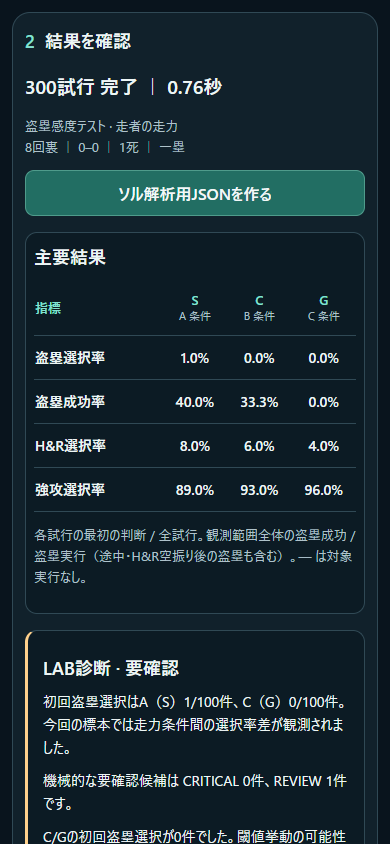
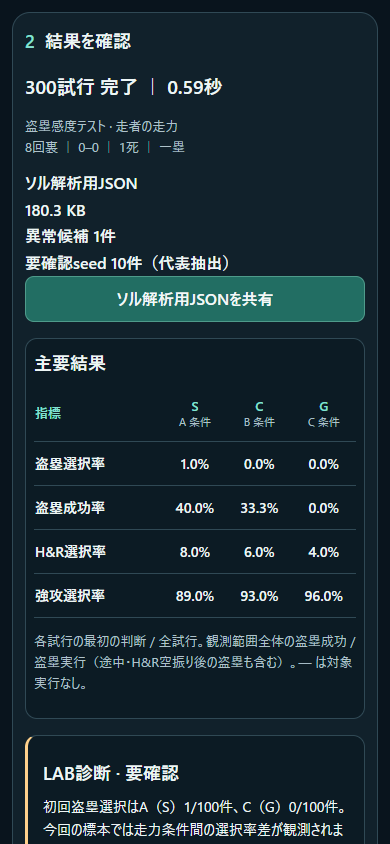
ENGINE LAB ソル解析用JSONを軽量化

Changed region(s): [[0.0615, 0.1848, 0.9538, 1.0], [0.4615, 0.0924, 0.5846, 0.1232], [0.8615, 0.8934, 0.8923, 0.9242]]

diff --git a/engine-lab-ui.js b/engine-lab-ui.js
@@ -42,7 +42,7 @@ function stop(){worker?.terminate();worker=null;$('run').disabled=false;$('cance
 $('run').onclick=()=>launch(scenario,$('axis').value,countValue(),$('seed').value);$('cancel').onclick=()=>{stop();status('中止しました。未完了データは保存されていません。');};
 const percent=(n,d)=>d?`${(100*n/d).toFixed(1)}%`:'—';
 function metricTable(root,metrics,groups,showCode=false){root.replaceChildren();const t=node('table',null,root);t.className='metrics-table';const cols=node('colgroup',null,t);for(let i=0;i<=groups.length;i++)node('col',null,cols);const head=node('tr',null,node('thead',null,t));node('th','指標',head).scope='col';groups.forEach((g,i)=>{const c=P.condition(g,i),th=node('th',c.label,head);th.scope='col';node('small',c.id+' 条件',th);});const body=node('tbody',null,t);for(const m of metrics){const row=node('tr',null,body),th=node('th',m.label,row);th.scope='row';th.title=m.basis;if(showCode)node('code',m.id,th);for(const value of m.values){const td=node('td',percent(value.numerator,value.denominator),row);td.title=`${value.numerator} / ${value.denominator} · ${m.basis}`;}}}
-function renderReport(){const r=report;if(renderedReport!==r){$('allMetrics').open=false;$('trialDetails').open=false;candidateScope=null;renderedReport=r;}view=P.analysis(r,before);$('results').hidden=false;$('timing').textContent=`${view.totalTrialCount.toLocaleString()}試行 完了 ｜ ${(r.elapsedMs/1000).toFixed(2)}秒`;$('resultContext').textContent=`${view.testName} · ${view.comparison.label}\n${P.situation(r.groups[0].bundle.scenario)}`;$('resultMeta').textContent=r.version+' · '+r.date;$('resultSetup').textContent=JSON.stringify({scenario:r.groups[0].bundle.scenario,comparisonAxis:r.axis,changedPaths:view.comparison.fixedConditions.changedPaths,seedPrefix:r.seedPrefix},null,2);metricTable($('primaryMetrics'),view.primaryMetrics,r.groups);$('metricNote').textContent=view.primaryMetrics.map(m=>m.basis).filter((v,i,a)=>a.indexOf(v)===i).join('。')+'。— は対象実行なし。';metricTable($('summary'),view.allMetrics.rates,r.groups,true);$('rawMetrics').textContent=JSON.stringify(view.allMetrics.rawByCondition,null,2);
+function renderReport(){const r=report;if(renderedReport!==r){$('allMetrics').open=false;$('trialDetails').open=false;candidateScope=null;renderedReport=r;}view=P.analysis(r,before);updateSolMeta();$('results').hidden=false;$('timing').textContent=`${view.totalTrialCount.toLocaleString()}試行 完了 ｜ ${(r.elapsedMs/1000).toFixed(2)}秒`;$('resultContext').textContent=`${view.testName} · ${view.comparison.label}\n${P.situation(r.groups[0].bundle.scenario)}`;$('resultMeta').textContent=r.version+' · '+r.date;$('resultSetup').textContent=JSON.stringify({scenario:r.groups[0].bundle.scenario,comparisonAxis:r.axis,changedPaths:view.comparison.fixedConditions.changedPaths,seedPrefix:r.seedPrefix},null,2);metricTable($('primaryMetrics'),view.primaryMetrics,r.groups);$('metricNote').textContent=view.primaryMetrics.map(m=>m.basis).filter((v,i,a)=>a.indexOf(v)===i).join('。')+'。— は対象実行なし。';metricTable($('summary'),view.allMetrics.rates,r.groups,true);$('rawMetrics').textContent=JSON.stringify(view.allMetrics.rawByCondition,null,2);
  const d=$('diagnosis');d.replaceChildren();d.className='diagnosis '+(view.labDiagnosis.status==='candidate'?'critical':view.labDiagnosis.status);node('h3','LAB診断 · '+view.labDiagnosis.label,d);for(const f of view.labDiagnosis.facts)node('p',f,d);node('p','機械的な検査結果です。失敗・盗塁死・敗戦だけでは異常扱いしません。',d).className='note';
  const next=$('nextTest');next.replaceChildren();node('h3','次の推奨テスト',next);node('p',view.recommendedNextTest.label,next);node('p','条件を準備するだけで、自動実行はしません。',next).className='note';node('button','この条件で次のテストを作る',next).onclick=prepareNext;
  $('shareFallback').hidden=true;$('shareStatus').textContent='';$('copyFallback').hidden=true;renderCandidates();renderTrials();renderBeforeAfter();}
@@ -52,7 +52,7 @@ $('nextAction').onclick=prepareNext;$('reviewAction').onclick=()=>{$('flags').sc
 function showSeeds(flag){candidateScope=flag;$('trialDetails').open=true;$('filter').value='all';$('search').value='';renderTrials();$('trialDetails').scrollIntoView({behavior:'smooth'});}
 function renderCandidates(){const root=$('flags');root.replaceChildren();node('h3','要確認候補',root);const flags=view.anomalySummary.candidates;node('p',`CRITICAL ${view.anomalySummary.criticalCount}件 ｜ REVIEW ${view.anomalySummary.reviewCount}件`,root).className='note';if(!flags.length){node('p','現在、機械検査による要確認候補はありません。保存したseedや任意のseedは下の一覧から確認できます。',root).className='note';return;}
  const buckets=new Map();for(const f of flags){const key=f.rule+'|'+f.groupIndex;if(!buckets.has(key))buckets.set(key,[]);buckets.get(key).push(f);}for(const list of [...buckets.values()].slice(0,30)){const f=list[0],card=node('article',null,root);card.className='candidate';node('span',f.severity==='CRITICAL'?'構造の確認':'要確認',card).className='badge '+f.severity;node('h4',f.heading+(list.length>1?`（${list.length}件）`:''),card);node('p',f.reason,card);if(f.detail)node('p',f.detail,card).className='note';node('code',f.rule,card);const group=Number.isInteger(f.groupIndex)?report.groups[f.groupIndex]:null,t=group?.trials.find(t=>t.seed===f.seed);node('p',t?`${group.label} · ${t.seed}`:'条件全体の候補です。特定seedの失敗を異常と判定したものではありません。',card).className='note';const actions=node('div',null,card);actions.className='toolbar';node('button',t?'対象seedを見る':'この条件のseedを見る',actions).onclick=()=>showSeeds(f);if(t)node('button','2Dで再生',actions).onclick=()=>play(group,t);}}
-function renderTrials(){const root=$('trials');root.replaceChildren();if(!report)return;if(candidateScope){node('p','絞り込み：'+candidateScope.heading,root).className='note';node('button','絞り込みを解除',root).onclick=()=>{candidateScope=null;renderTrials();};}let shown=0;for(let gi=0;gi<report.groups.length;gi++){const g=report.groups[gi];for(const t of g.trials){if(candidateScope){const f=candidateScope;if(f.groupIndices&&!f.groupIndices.includes(gi))continue;if(f.groupIndex!=null&&!f.groupIndices&&f.groupIndex!==gi)continue;if(f.rule!=='ZERO_STEAL_CG'&&f.seed&&!(t.anomalies.some(a=>a.rule===f.rule)||t.seed===f.seed))continue;}const key=gi+'|'+t.seed,saved=report.savedSeeds?.includes(key);if($('filter').value==='flagged'&&!t.anomalies.length||$('filter').value==='saved'&&!saved||!t.seed.includes($('search').value))continue;if(shown++>=50)break;const row=node('div',null,root);row.className='trial';node('span',t.classification==='NORMAL'?'候補なし':t.classification==='CRITICAL'?'構造の確認':'要確認',row).className='badge '+t.classification;node('p',`${g.label} · ${t.seed}`,row);node('p',`${P.label(t.initialDecision)} ｜ 終了スコア ${t.outcome.finalScore.join('–')}`,row);const actions=node('div',null,row);actions.className='toolbar';const save=node('button',saved?'★ 保存済み':'☆ seed保存',actions);save.onclick=async()=>{report.savedSeeds??=[];if(!report.savedSeeds.includes(key))report.savedSeeds.push(key);try{const savedName=await putReport($('saveName').value||report.seedPrefix||'saved-seeds',report);renderTrials();history();$('shareStatus').textContent='seedと再現条件を保存しました：'+savedName;}catch(e){$('shareStatus').textContent='保存失敗: '+e.message;}};node('button','2D再生',actions).onclick=()=>play(g,t);node('button','理由',actions).onclick=()=>{$('replaySection').hidden=false;$('trace').textContent=JSON.stringify(t,null,2);$('trace').parentElement.open=true;$('replaySection').scrollIntoView({behavior:'smooth'});};}}if(!shown)node('p','該当するseedはありません。',root).className='note';}
+function renderTrials(){const root=$('trials');root.replaceChildren();if(!report)return;if(candidateScope){node('p','絞り込み：'+candidateScope.heading,root).className='note';node('button','絞り込みを解除',root).onclick=()=>{candidateScope=null;renderTrials();};}let shown=0;for(let gi=0;gi<report.groups.length;gi++){const g=report.groups[gi];for(const t of g.trials){if(candidateScope){const f=candidateScope;if(f.groupIndices&&!f.groupIndices.includes(gi))continue;if(f.groupIndex!=null&&!f.groupIndices&&f.groupIndex!==gi)continue;if(f.rule!=='ZERO_STEAL_CG'&&f.seed&&!(t.anomalies.some(a=>a.rule===f.rule)||t.seed===f.seed))continue;}const key=gi+'|'+t.seed,saved=report.savedSeeds?.includes(key);if($('filter').value==='flagged'&&!t.anomalies.length||$('filter').value==='saved'&&!saved||!t.seed.includes($('search').value))continue;if(shown++>=50)break;const row=node('div',null,root);row.className='trial';node('span',t.classification==='NORMAL'?'候補なし':t.classification==='CRITICAL'?'構造の確認':'要確認',row).className='badge '+t.classification;node('p',`${g.label} · ${t.seed}`,row);node('p',`${P.label(t.initialDecision)} ｜ 終了スコア ${t.outcome.finalScore.join('–')}`,row);const actions=node('div',null,row);actions.className='toolbar';const save=node('button',saved?'★ 保存済み':'☆ seed保存',actions);save.onclick=async()=>{report.savedSeeds??=[];if(!report.savedSeeds.includes(key))report.savedSeeds.push(key);try{const savedName=await putReport($('saveName').value||report.seedPrefix||'saved-seeds',report);renderTrials();updateSolMeta();history();$('shareStatus').textContent='seedと再現条件を保存しました：'+savedName;}catch(e){$('shareStatus').textContent='保存失敗: '+e.message;}};node('button','2D再生',actions).onclick=()=>play(g,t);node('button','理由',actions).onclick=()=>{$('replaySection').hidden=false;$('trace').textContent=JSON.stringify(t,null,2);$('trace').parentElement.open=true;$('replaySection').scrollIntoView({behavior:'smooth'});};}}if(!shown)node('p','該当するseedはありません。',root).className='note';}
 $('filter').onchange=()=>{candidateScope=null;renderTrials();};$('search').oninput=()=>{candidateScope=null;renderTrials();};
 function verifyReplay(e){const t=replayTrial,s=replay.state,match=JSON.stringify(s.score)===JSON.stringify(t.outcome.finalScore)&&s.finished===t.outcome.gameFinished&&s.finishReason===t.outcome.finishReason;replayReport.uiChecks??=[];const key=replayGroupIndex+'|'+t.seed;replayReport.uiChecks=replayReport.uiChecks.filter(x=>x.key!==key);replayReport.uiChecks.push({key,seed:t.seed,groupIndex:replayGroupIndex,status:match?'matched':'mismatch',checkedFields:['finalScore','gameFinished','finishReason'],expected:t.outcome.finalScore,actual:[...s.score],checkedAt:new Date().toISOString()});$('replayLabel').textContent=match?'seed '+t.seed+'：終了スコア・試合終了情報が保存結果と一致しました。':'seed '+t.seed+'：保存結果との不一致を検出しました。';if(report===replayReport){view=P.analysis(report,before);if(!match){renderReport();$('shareStatus').textContent='保存結果とseed再実行が一致しません。要確認候補を確認してください。';}}}
 function play(group,t){try{if(group.bundle.config.version!==E.CONFIG.version)throw Error('このENGINEでは別versionのseed再計算はできません。対応versionで開いてください。');replayTrial=t;replayReport=report;replayGroupIndex=report.groups.indexOf(group);replay=L.create(group.bundle,t.seed);viewer?.reset();$('replaySection').hidden=false;$('replayLabel').textContent=`${group.label} / ${t.seed} / 保存時の選手コピーで再生`;replayDone=false;replayScope=group;replayStartPA=replay.state.paCompleted;if(!viewer)viewer=SL_MATCH_VIEWER.create({root:$('matchViewer'),getGame:()=>replayDone?{...replay,state:{...replay.state,finished:true,finishReason:replay.state.finishReason||'scenarioReplayComplete'}}:replay,step:mode=>{if(replayDone)return [];const records=[];do{const e=E.onePitch(replay);if(!e)break;records.push(e);const s=replayScope.bundle.scenario;replayDone=replay.state.finished||(s.horizon==='half'&&(replay.state.inning!==s.inning||replay.state.half!==s.half))||(s.horizon==='pa'&&replay.state.paCompleted!==replayStartPA);if(replayDone)verifyReplay(e);if(mode!=='game')break;}while(!replayDone);return records;},onChange:()=>{}});$('trace').textContent=JSON.stringify(t,null,2);$('matchViewer').querySelector('[data-action="view"]').click();$('replaySection').scrollIntoView({behavior:'smooth'});}catch(e){status(e.message);}}
@@ -64,15 +64,17 @@ async function historySummaries(){const db=await openDB();return new Promise((re
 const loadHistory=name=>storage('readonly',s=>s.get(name));
 
 function download(text,name,type){const url=URL.createObjectURL(new Blob([text],{type})),a=node('a',null);a.href=url;a.download=name;a.hidden=true;document.body.append(a);a.click();a.remove();setTimeout(()=>URL.revokeObjectURL(url),60000);}
-function exportText(){return JSON.stringify(P.exportReport(report,before),null,2);}
-function downloadSol(){download(exportText(),P.filename(report),'application/json');}
-$('json').onclick=downloadSol;$('csv').onclick=()=>download(L.csv(report),P.filename(report).replace(/\.json$/,'.csv'),'text/csv');
-$('solJson').onclick=async()=>{if(!report)return;$('shareStatus').textContent='解析用JSONを作成しています…';try{const text=exportText(),file=new File([text],P.filename(report),{type:'application/json'});if(navigator.share&&navigator.canShare?.({files:[file]})){try{await navigator.share({files:[file],title:'SL WORLD / '+P.title(report.groups[0].bundle.scenario)});$('shareStatus').textContent='共有シートにJSONを渡しました。';return;}catch(e){if(e.name==='AbortError'){$('shareStatus').textContent='共有をキャンセルしました。';return;}}}download(text,P.filename(report),'application/json');$('shareFallback').hidden=false;$('shareStatus').textContent='ファイル共有が利用できないため、JSONのダウンロードを開始しました。コピーも選べます。';}catch(e){$('shareFallback').hidden=false;$('shareStatus').textContent='共有できませんでした。ダウンロードまたはコピーを選んでください。 '+e.message;}};
+function exportText(){return JSON.stringify(P.solReport(report,before));}
+function updateSolMeta(){if(!report)return;const data=P.solReport(report,before),size=new Blob([JSON.stringify(data)]).size;$('solMeta').textContent='ソル解析用JSON\n'+(size/1024).toFixed(1)+' KB\n異常候補 '+data.anomalySummary.candidateCount+'件\n要確認seed '+data.interestingSeeds.length+'件（代表抽出）';}
+function solFilename(){return P.filename(report).replace('.json','_sol.json');}
+function downloadSol(){download(exportText(),solFilename(),'application/json');}
+$('json').onclick=()=>download(JSON.stringify(P.exportReport(report,before),null,2),P.filename(report).replace('.json','_full.json'),'application/json');$('csv').onclick=()=>download(L.csv(report),P.filename(report).replace(/\.json$/,'.csv'),'text/csv');
+$('solJson').onclick=async()=>{if(!report)return;$('shareStatus').textContent='解析用JSONを作成しています…';try{const text=exportText(),file=new File([text],solFilename(),{type:'application/json'});if(navigator.share&&navigator.canShare?.({files:[file]})){try{await navigator.share({files:[file],title:'SL WORLD / '+P.title(report.groups[0].bundle.scenario)});$('shareStatus').textContent='共有シートにJSONを渡しました。';return;}catch(e){if(e.name==='AbortError'){$('shareStatus').textContent='共有をキャンセルしました。';return;}}}download(text,solFilename(),'application/json');$('shareFallback').hidden=false;$('shareStatus').textContent='ファイル共有が利用できないため、JSONのダウンロードを開始しました。コピーも選べます。';}catch(e){$('shareFallback').hidden=false;$('shareStatus').textContent='共有できませんでした。ダウンロードまたはコピーを選んでください。 '+e.message;}};
 $('solDownload').onclick=downloadSol;$('solCopy').onclick=async()=>{const text=exportText();try{if(!navigator.clipboard?.writeText)throw Error('clipboard unavailable');await navigator.clipboard.writeText(text);$('shareStatus').textContent='ソル解析用JSONをコピーしました。';}catch{const box=$('copyFallback');box.hidden=false;box.value=text;box.focus();box.select();$('shareStatus').textContent='自動コピーが利用できません。選択されたJSONをコピーしてください。';}};
 $('save').onclick=async()=>{try{const savedName=await putReport($('saveName').value.trim()||report.seedPrefix||'engine-lab-'+Date.now(),report);$('shareStatus').textContent='履歴保存完了：'+savedName+'（既存の同名履歴は保持）';$('saveStatus').textContent='保存しました：'+savedName+'（同名の既存履歴は保持）';status('履歴保存完了');history();}catch(e){$('saveStatus').textContent='保存失敗。JSONを書き出して保存してください: '+e.message;}};
 async function history(){try{const list=await historySummaries();$('history').replaceChildren();if(!list.length)node('p','保存したテストがここに並びます。', $('history')).className='note';for(const item of list.sort((a,b)=>b.date.localeCompare(a.date))){const row=node('article',null,$('history'));row.className='history-card';const open=node('button',null,row);node('strong',item.name,open);node('small',item.title+' ｜ '+(P.axisNames[item.axis]||item.axis),open);node('small','各'+Number(item.count||0).toLocaleString()+'回 ｜ '+(item.testDate||item.date||'').slice(0,10),open);
  const act=fn=>async()=>{try{await fn((await loadHistory(item.name)).report);}catch(e){$('importStatus').textContent='履歴を開けません：'+e.message;}};
- open.onclick=act(r=>{report=r;candidateScope=null;$('saveName').value=item.name;renderReport();$('results').scrollIntoView({behavior:'smooth'});});const actions=node('div',null,row);actions.className='toolbar';node('button','BEFOREに指定',actions).onclick=act(r=>{before=r;renderBeforeAfter();if(report)view=P.analysis(report,before);status('BEFOREを指定しました。');$('importStatus').textContent=item.name+' をBEFOREに指定しました。';});node('button','同じ条件を準備',actions).onclick=act(r=>{before=r;prepare(r.groups[0].bundle.scenario,r.axis,r.trialCount,r.seedPrefix);});}}catch(e){node('p','履歴が利用できません: '+e.message,$('history'));}}
+ open.onclick=act(r=>{report=r;candidateScope=null;$('saveName').value=item.name;renderReport();$('results').scrollIntoView({behavior:'smooth'});});const actions=node('div',null,row);actions.className='toolbar';node('button','BEFOREに指定',actions).onclick=act(r=>{before=r;renderBeforeAfter();if(report){view=P.analysis(report,before);updateSolMeta();}status('BEFOREを指定しました。');$('importStatus').textContent=item.name+' をBEFOREに指定しました。';});node('button','同じ条件を準備',actions).onclick=act(r=>{before=r;prepare(r.groups[0].bundle.scenario,r.axis,r.trialCount,r.seedPrefix);});}}catch(e){node('p','履歴が利用できません: '+e.message,$('history'));}}
 function renderBeforeAfter(){const root=$('beforeAfter');root.replaceChildren();const data=report?P.beforeAfter(before,report)||report.beforeAfter:null;if(!data)return;node('h3','BEFORE / AFTER',root);node('p',`${data.before.version} → ${data.after.version}`,root).className='note';for(const c of data.conditions){const card=node('div',null,root);card.className='result-card';node('h3',c.condition.id+' / '+c.condition.label,card);node('p',c.sameScenario&&c.samePlayers&&c.sameSeedPrefix&&c.sameCount?'状況・選手・seed・試行数が同条件':'条件差があります。差を確認して比較してください。',card).className='note';const t=node('table',null,card);t.className='metrics-table';const cg=node('colgroup',null,t);[0,1,2].forEach(()=>node('col',null,cg));const tr=node('tr',null,node('thead',null,t));['初回判断','BEFORE','AFTER'].forEach(x=>node('th',x,tr));const body=node('tbody',null,t);for(const k of new Set([...Object.keys(c.before?.initialDecision||{}),...Object.keys(c.after.initialDecision)])){const row=node('tr',null,body);node('th',P.label(k),row).scope='row';node('td',percent(c.before?.initialDecision[k]||0,c.before?.trials||0),row);node('td',percent(c.after.initialDecision[k]||0,c.after.trials),row);}}}
 $('import').onchange=async()=>{try{if(!$('import').files[0])return;report=P.importReport(JSON.parse(await $('import').files[0].text()));candidateScope=null;renderReport();$('importStatus').textContent='LAB JSONを読み込みました。元の履歴・選手DBは変更していません。保存する場合は「履歴を保存」を押してください。';$('results').scrollIntoView({behavior:'smooth'});}catch(e){$('importStatus').textContent='読み込めません: '+e.message;}finally{$('import').value='';}};
 settings();players();updatePreview();history();

diff --git a/engine-lab-presentation.js b/engine-lab-presentation.js
@@ -64,9 +64,32 @@ function analysis(r,before=null){const m=metrics(r),flags=candidates(r),d=diagno
 
  return {analysisSchemaVersion:1,engineVersion:r.version,testId:r.testId||r.seedPrefix,testName:title(s),timestamp:r.date,scenario:{inning:s.inning,half:s.half,score:s.score,outs:s.outs,runners:s.bases,battingOrder:s.order,pitcherFatigue:s.fatigue,observationRange:s.horizon},comparison:comparison(r),trialCountPerCondition:r.trialCount,totalTrialCount:r.groups.reduce((n,g)=>n+g.trials.length,0),executionTimeMs:r.elapsedMs,seedPrefix:r.seedPrefix,primaryMetrics:m.primary,allMetrics:{rates:m.all,rawByCondition:r.groups.map((g,i)=>({conditionId:condition(g,i).id,summary:g.summary}))},anomalySummary:{criticalCount:flags.filter(f=>f.severity==='CRITICAL').length,reviewCount:flags.filter(f=>f.severity==='REVIEW').length,candidates:flags},labDiagnosis:d,recommendedNextTest:nextTest(r),interestingSeeds:interesting,beforeAfter:beforeAfter(before,r)||r.beforeAfter||null};
 }
+// Bounded sharing adapter; archive and simulation contracts remain unchanged.
+function solReport(r,before=null){
+ const flags=candidates(r),m=metrics(r),cats=new Map(),chosen=new Map(),affected=new Set();
+ const limits={seedsPerCategoryAndCondition:5,totalSeeds:60,detailBytesPerSeed:24000};
+ const key=(i,seed)=>i+'|'+seed;
+ function select(i,t,rule,role){if(!t)return;const k=key(i,t.seed);if(!chosen.has(k)){if(chosen.size>=limits.totalSeeds)return;chosen.set(k,{i,t,rules:new Set(),role});}chosen.get(k).rules.add(rule);}
+ for(const f of flags){const indices=f.groupIndices||(f.groupIndex!=null?[f.groupIndex]:r.groups.map((_,i)=>i)),k=[f.severity,f.rule,...indices].join('|');
+ if(!cats.has(k))cats.set(k,{severity:f.severity,rule:f.rule,reason:f.reason,heading:f.heading,scope:f.seed?'trial':'comparison',conditionIds:indices.map(i=>condition(r.groups[i],i).id),occurrences:0,seeds:new Set(),indices});
+ const cat=cats.get(k);cat.occurrences++;if(f.seed)for(const i of indices){cat.seeds.add(key(i,f.seed));affected.add(key(i,f.seed));}}
+ const pools=[...cats.values()].flatMap(cat=>cat.indices.map(i=>({cat,i,pool:r.groups[i].trials.filter(t=>cat.scope==='comparison'||cat.seeds.has(key(i,t.seed)))})));
+ // Round-robin across categories and conditions before adding their next example.
+ for(let j=0;j<limits.seedsPerCategoryAndCondition;j++)for(const {cat,i,pool}of pools){const n=Math.min(limits.seedsPerCategoryAndCondition,pool.length);if(j<n)select(i,pool[Math.floor(j*(pool.length-1)/Math.max(1,n-1))],cat.rule,cat.scope==='trial'?'flagged':'representative');}
+ for(const saved of r.savedSeeds||[]){const i=Number(saved.split('|')[0]),seed=saved.slice(saved.indexOf('|')+1);select(i,r.groups[i]?.trials.find(t=>t.seed===seed),'USER_SAVED','saved');}
+ const bytes=x=>new TextEncoder().encode(JSON.stringify(x)).length;
+ const interestingSeeds=[...chosen.values()].map(({i,t,rules,role})=>{const detail={initial:t.initial,intent:t.intent,initialDecision:t.initialDecision,decision:t.decision,execution:t.execution,outcome:t.outcome,traces:[],operations:[],anomalies:[]},omittedRecords={};
+ const sequences=new Set((t.anomalies||[]).map(a=>a.sequence)),traces=[...(t.traces||[])].sort((a,b)=>Number(sequences.has(b.sequence))-Number(sequences.has(a.sequence)));
+ for(const [field,records]of Object.entries({traces,operations:t.operations||[],anomalies:t.anomalies||[]})){omittedRecords[field]=0;for(const record of records){detail[field].push(record);if(bytes(detail)>limits.detailBytesPerSeed){detail[field].pop();omittedRecords[field]++;}}}detail.traces.sort((a,b)=>a.sequence-b.sequence);
+ return {conditionId:condition(r.groups[i],i).id,seed:t.seed,evidenceRole:role,anomalyType:[...rules],detail,omittedRecords};});
+ const compactSummary=s=>{if(!s)return null;const {anomalies,...rest}=s;return {...rest,anomalyOccurrences:anomalies?.length||0};},ba=beforeAfter(before,r)||r.beforeAfter||null;
+ const categories=[...cats.values()].map(({seeds,indices,...cat})=>{const denominator=indices.reduce((n,i)=>n+r.groups[i].trials.length,0);return {...cat,affectedTrialCount:cat.scope==='trial'?seeds.size:null,trialDenominator:denominator,affectedTrialRate:cat.scope==='trial'?seeds.size/denominator:null,representativeSeeds:interestingSeeds.filter(s=>s.anomalyType.includes(cat.rule)&&cat.conditionIds.includes(s.conditionId)).map(s=>({conditionId:s.conditionId,seed:s.seed}))};});
+ const d=diagnosis(r,flags);delete d.replayChecks;
+ return {format:'SL_WORLD_ENGINE_LAB_SOL',schemaVersion:1,analysisSchemaVersion:2,engineVersion:r.version,testId:r.testId||r.seedPrefix,testName:title(r.groups[0].bundle.scenario),timestamp:r.date,seedPrefix:r.seedPrefix,comparison:comparison(r),trialCountPerCondition:r.trialCount,totalTrialCount:r.groups.reduce((n,g)=>n+g.trials.length,0),executionTimeMs:r.elapsedMs,primaryMetrics:m.primary,allMetrics:{rates:m.all,rawByCondition:r.groups.map((g,i)=>({conditionId:condition(g,i).id,summary:compactSummary(g.summary)}))},anomalySummary:{candidateCount:flags.length,criticalCount:flags.filter(f=>f.severity==='CRITICAL').length,reviewCount:flags.filter(f=>f.severity==='REVIEW').length,affectedTrialCount:affected.size,categories},labDiagnosis:d,interestingSeeds,sampling:{...limits,includedSeedCount:interestingSeeds.length,policy:'カテゴリ・条件ごとに試行順の等間隔代表seed。比較候補のseedは異常確定ではない。省略はomittedRecordsに記録。全件は完全ログJSONで確認。'},recommendedNextTest:nextTest(r),beforeAfter:ba?{...ba,conditions:ba.conditions.map(c=>({...c,before:compactSummary(c.before),after:compactSummary(c.after)}))}:null};
+}
 function exportReport(r,before=null){return {...r,...analysis(r,before)};}
-function importReport(value){if(value?.format!=='SL_WORLD_ENGINE_LAB'||value.schemaVersion!==1||!Array.isArray(value.groups)||!value.groups.length||value.groups.length>3)throw Error('対応するLAB JSON（schemaVersion 1）ではありません');for(const g of value.groups){L.validate(g.bundle.scenario);if(!Array.isArray(g.trials)||!g.trials.length||!Array.isArray(g.bundle.teams))throw Error('再現に必要なtrial / 選手snapshotがありません');for(const t of g.trials)if(typeof t.seed!=='string'||!t.decision||!t.execution||!t.outcome||!Array.isArray(t.outcome.finalScore)||t.outcome.finalScore.length!==2||t.outcome.finalScore.some(n=>!Number.isFinite(n))||!Array.isArray(t.anomalies))throw Error('trial詳細が不完全です');g.summary=L.summarize(g.trials);}value.anomalies??=[];value.savedSeeds??=[];return value;}
+function importReport(value){if(value?.format==='SL_WORLD_ENGINE_LAB_SOL')throw Error('ソル解析用JSONは共有用の軽量形式です。履歴・seed再生の移行には「完全ログJSON」を読み込んでください。');if(value?.format!=='SL_WORLD_ENGINE_LAB'||value.schemaVersion!==1||!Array.isArray(value.groups)||!value.groups.length||value.groups.length>3)throw Error('対応するLAB JSON（schemaVersion 1）ではありません');for(const g of value.groups){L.validate(g.bundle.scenario);if(!Array.isArray(g.trials)||!g.trials.length||!Array.isArray(g.bundle.teams))throw Error('再現に必要なtrial / 選手snapshotがありません');for(const t of g.trials)if(typeof t.seed!=='string'||!t.decision||!t.execution||!t.outcome||!Array.isArray(t.outcome.finalScore)||t.outcome.finalScore.length!==2||t.outcome.finalScore.some(n=>!Number.isFinite(n))||!Array.isArray(t.anomalies))throw Error('trial詳細が不完全です');g.summary=L.summarize(g.trials);}value.anomalies??=[];value.savedSeeds??=[];return value;}
 function filename(r){const safe=x=>String(x||'test').replace(/[^\p{L}\p{N}_.-]/gu,'-').slice(0,70);return `sl-world-lab_${safe(r.testId||r.seedPrefix)}_${safe((r.groups[0].bundle.scenario.id||'custom')+'-'+String(r.axis).replace(/[A-Z]/g,m=>'-'+m.toLowerCase()))}_${safe(r.date?.slice(0,10))}.json`;}
-globalThis.SL_LAB_PRESENTATION={labels,label,title,situation,axisNames,defaultAxes,condition,metric,metrics,candidates,diagnosis,nextTest,comparison,beforeAfter,analysis,exportReport,importReport,filename};
+globalThis.SL_LAB_PRESENTATION={labels,label,title,situation,axisNames,defaultAxes,condition,metric,metrics,candidates,diagnosis,nextTest,comparison,beforeAfter,analysis,solReport,exportReport,importReport,filename};
 })();
 

diff --git a/engine-lab.html b/engine-lab.html
@@ -9,7 +9,7 @@
 <details id="advanced"><summary>詳細設定を開く</summary><h3>状況</h3><div class="grid" id="settings"></div><h3>選手と能力</h3><div class="grid"><label>編集対象<select id="role"></select></label><label>選手ソース<select id="playerSource"></select></label><label>特殊能力<select id="trait"><option value="none">なし</option><option>盗塁○</option><option>盗塁×</option><option>バント○</option><option>バント×</option></select></label></div><div id="abilities" class="grid"></div><p class="note">能力編集はLAB内のコピーに適用。走者比較は最も浅い占有塁の1人だけを変更します。</p><label>比較軸<select id="axis"></select></label><label>seed prefix<input id="seed" value="daily-001" autocomplete="off"></label><details><summary>CUSTOM / 設定JSON</summary><textarea id="custom" rows="12" aria-label="CUSTOM scenario JSON"></textarea><div class="toolbar"><button id="readCustom">現在設定を表示</button><button id="applyCustom">JSONを適用</button></div></details></details>
 <div class="run-panel"><label>各条件の試行数<select id="count"><option value="1">1回</option><option value="100">100回</option><option value="1000" selected>1,000回</option><option value="10000">10,000回</option><option value="custom">CUSTOM</option></select></label><label id="customCountLabel" hidden>CUSTOM回数<input id="customCount" type="number" min="1" max="10000" value="500"></label><div id="runSummary" class="run-summary"></div><button class="primary wide" id="run">ENGINE TEST 実行</button><button class="wide" id="cancel" hidden disabled>実行を中止</button><p id="status" role="status" aria-live="polite">設定を確認して実行してください。</p><progress id="progress" value="0" max="1" aria-label="試行の進捗" hidden></progress></div>
 </section>
-<section id="results" hidden aria-labelledby="resultTitle"><h2 id="resultTitle" tabindex="-1">2 <span>結果を確認</span></h2><p id="timing" class="completion"></p><p id="resultContext" class="note"></p><button class="primary wide" id="solJson">ソル解析用JSONを作る</button><p id="shareStatus" role="status" aria-live="polite"></p><div id="shareFallback" class="toolbar" hidden><button id="solDownload">JSONをダウンロード</button><button id="solCopy">JSONをコピー</button></div><textarea id="copyFallback" rows="5" readonly hidden aria-label="コピー用JSON"></textarea>
+<section id="results" hidden aria-labelledby="resultTitle"><h2 id="resultTitle" tabindex="-1">2 <span>結果を確認</span></h2><p id="timing" class="completion"></p><p id="resultContext" class="note"></p><p id="solMeta" class="completion" aria-live="polite"></p><button class="primary wide" id="solJson">ソル解析用JSONを共有</button><p id="shareStatus" role="status" aria-live="polite"></p><div id="shareFallback" class="toolbar" hidden><button id="solDownload">JSONをダウンロード</button><button id="solCopy">JSONをコピー</button></div><textarea id="copyFallback" rows="5" readonly hidden aria-label="コピー用JSON"></textarea>
 <div class="result-card"><h3>主要結果</h3><div id="primaryMetrics"></div><p id="metricNote" class="note"></p></div>
 <div id="diagnosis" class="diagnosis"></div>
 <div class="main-actions"><button id="nextAction">次のテストを準備</button><button id="reviewAction">怪しいseedを見る</button></div>
@@ -18,7 +18,7 @@
 <details><summary>この結果の条件・ENGINE情報</summary><p id="resultMeta" class="note"></p><pre id="resultSetup"></pre></details>
 <details id="allMetrics"><summary>全指標を見る</summary><div id="summary"></div><details><summary>Reason・Executionなどの生集計</summary><pre id="rawMetrics"></pre></details></details>
 <details id="trialDetails"><summary>seedを探す・保存seedを見る</summary><div class="grid"><label>表示するtrial<select id="filter"><option value="all">全trial（先頭50件）</option><option value="flagged">異常候補のみ</option><option value="saved">保存seedのみ</option></select></label><label>seed検索<input id="search" placeholder="例 daily-001:42"></label></div><div id="trials"></div></details>
-<div class="export-panel"><h3>この結果を残す</h3><label>履歴名<input id="saveName" placeholder="daily-001" aria-label="保存名"></label><button class="wide" id="save">履歴を保存</button><p id="saveStatus" role="status"></p><div class="toolbar"><button id="json">JSONを書き出す</button><button id="csv">CSVを書き出す</button></div></div>
+<div class="export-panel"><h3>この結果を残す</h3><label>履歴名<input id="saveName" placeholder="daily-001" aria-label="保存名"></label><button class="wide" id="save">履歴を保存</button><p id="saveStatus" role="status"></p><details><summary>詳細出力・端末間移行</summary><p class="note">全trialと再現情報の保存・読み込みには完全ログJSONを使用してください。</p><div class="toolbar"><button id="json">完全ログJSONを保存</button><button id="csv">CSVを書き出す</button></div></details></div>
 </section>
 <section id="historySection"><h2>3 <span>履歴・比較</span></h2><label class="file-button">LAB JSONを読み込む<input type="file" id="import" accept="application/json,.json" aria-label="LAB JSONを読み込む"></label><p id="importStatus" role="status"></p><div id="history"></div><div id="beforeAfter"></div><details><summary>保存先について</summary><p class="note">履歴は同じ端末・ブラウザ・サイトURL（オリジン）の専用IndexedDBに保存します。既存履歴の移行や削除、player-editor領域への書き込みは行いません。別端末へはJSONで移動できます。</p></details></section>
 <section id="replaySection" hidden><h2>seedを2Dで確認</h2><p id="replayLabel"></p><div id="matchViewer"></div><details><summary>状況 → 選択肢 → 判断 → 理由 → 実行 → 結果</summary><pre id="trace"></pre></details></section>

diff --git a/engine-lab.css b/engine-lab.css
@@ -4,3 +4,5 @@
 @media(prefers-reduced-motion:reduce){html{scroll-behavior:auto}}
 
 #resultContext{white-space:pre-line}#shareStatus:empty,#importStatus:empty,#saveStatus:empty{display:none}#saveStatus{font-size:14px;color:var(--accent)}
+
+#solMeta{white-space:pre-line;font-size:16px;line-height:1.65}

diff --git a/ENGINE-LAB-SOL-EXPORT.md b/ENGINE-LAB-SOL-EXPORT.md
@@ -1,0 +1,41 @@
+# ソル解析用JSONの軽量化（2026-09-08）
+
+## 出力
+
+- メインの「ソル解析用JSONを共有」は `SL_WORLD_ENGINE_LAB_SOL` / analysisSchemaVersion 2。ファイル名は `_sol.json`。UTF-8・空白なしで保存し、画面のサイズも同じシリアライズ結果から算出する。
+- 「詳細出力・端末間移行」内の「完全ログJSONを保存」は従来の `SL_WORLD_ENGINE_LAB` / schemaVersion 1。ファイル名は `_full.json`。全trial、選手snapshot、保存seedを保持し、従来通り読み込める。
+- CSV、IndexedDB履歴、seed再生、BEFORE/AFTERの内部形式は変更しない。軽量版を読み込もうとすると完全ログが必要な旨を表示する。
+
+## 軽量版の内容と上限
+
+テスト条件・A/B/C能力差・基準snapshot・試行数・主要指標・全指標集計・比較・診断理由・NEXT TESTを保持する。全trial配列は含めない。raw集計とBEFORE/AFTERからも全件の異常配列を除き、件数に置換する。
+
+カテゴリごとに異常発生件数、重複排除した対象trial数、分母、発生率を出力する。比較全体の候補はscope=comparison、trial発生率はnullとし、個々のtrialの異常と混同しない。
+
+カテゴリ・条件ごとに試行順の等間隔で最大5seed、全体60seedまで。カテゴリ・条件を一巡してから次の代表例を加える。手動保存seedも残り枠に含める。各seedの詳細は24,000 bytesを目安に、Situation → Options → Decision → Reasonを含む既存traces、operations、異常記録を保持する。異常と同じsequenceのtraceを優先する。入らない記録数をomittedRecordsに明示し、全文が必要なら完全ログを使用する。失敗結果を理由に新たな異常フラグを追加していない。
+
+ENGINE、戦術、守備、LAB trial実行、Worker、既存検知ルールは変更していない。既存検知を超えた作戦妥当性の確定判定は行わない。
+
+## 計測・回帰
+
+`node engine-lab-sol.test.cjs` は修正前commit b6c8bc3eb1034631232aac70a3994550aa1b7983と同一条件・同一seedのtrial全文をSHA-256で比較する。盗塁・runnerSpeed、daily-001、half観測、A/S・B/C・C/G。3,000試行は各1,000、10,000試行は3,334/3,333/3,333。不均等な場合trialCountPerConditionはnull、各条件の正確な数は集計内に保持する。サイズ計測は同条件BEFORE/AFTER集計込み。最終値は test-artifacts/sol-export-sizes.json。
+
+3,000試行: 242,286 bytes（236.6 KiB）、代表10seed。
+10,000試行: 344,582 bytes（336.5 KiB）、代表10seed。
+
+合計13,000試行の全文一致、入力非変更、主要指標一致、完全ログround trip、CSV一致を検査。異常500/1,000試行を50%として残して5seedに抑える検査、大きいtraceの省略表示、正常trial非出力、保存seed60件上限も追加。
+
+既存検査: engine-lab-ui.test.cjs、engine-lab-regression.test.cjs、engine-lab-roads.test.cjs、engine-regression.test.cjs、tactics-regression.test.cjs、engine-lab.browser.test.cjs、engine-lab-ux.browser.test.cjs が通過。UI検査は320/375/390/430px、共有・キャンセル・ダウンロード・コピー、完全ログ読込、既存履歴非変更、seed再生、BEFORE/AFTER、Worker 1/100/1,000/10,000試行を確認。
+
+ブラウザ検査にはPlaywrightとEdgeを使用。iPhone実機の共有シート操作は未検証。
+
+## 変更ファイル
+
+- engine-lab-presentation.js: 共有専用solReport、カテゴリ集計、代表抽出、詳細上限、軽量形式読込時の案内。
+- engine-lab-ui.js: 共有・コピー・ダウンロードを軽量形式へ接続、完全ログ導線分離、サイズ・件数更新。
+- engine-lab.html / engine-lab.css: メイン共有ボタン、サイズ・件数の行別表示、完全ログ詳細メニュー。
+- engine-lab-sol.test.cjs: サイズ・旧commit同一seed・非変更・上限・大量異常・CSV/JSON互換性の追加検査。
+- engine-lab-ux.browser.test.cjs / engine-lab.browser.test.cjs: 新しい共有と完全ログの導線検査、表示サイズと実ファイルサイズの一致検査。
+- test-artifacts/sol-export-sizes.json: サイズ計測結果。
+- test-artifacts/engine-lab-ux-phone-results.png / test-artifacts/engine-lab-ux-results.png: 更新UIの検査画像。
+- ENGINE-LAB-SOL-EXPORT.md: 本報告。
